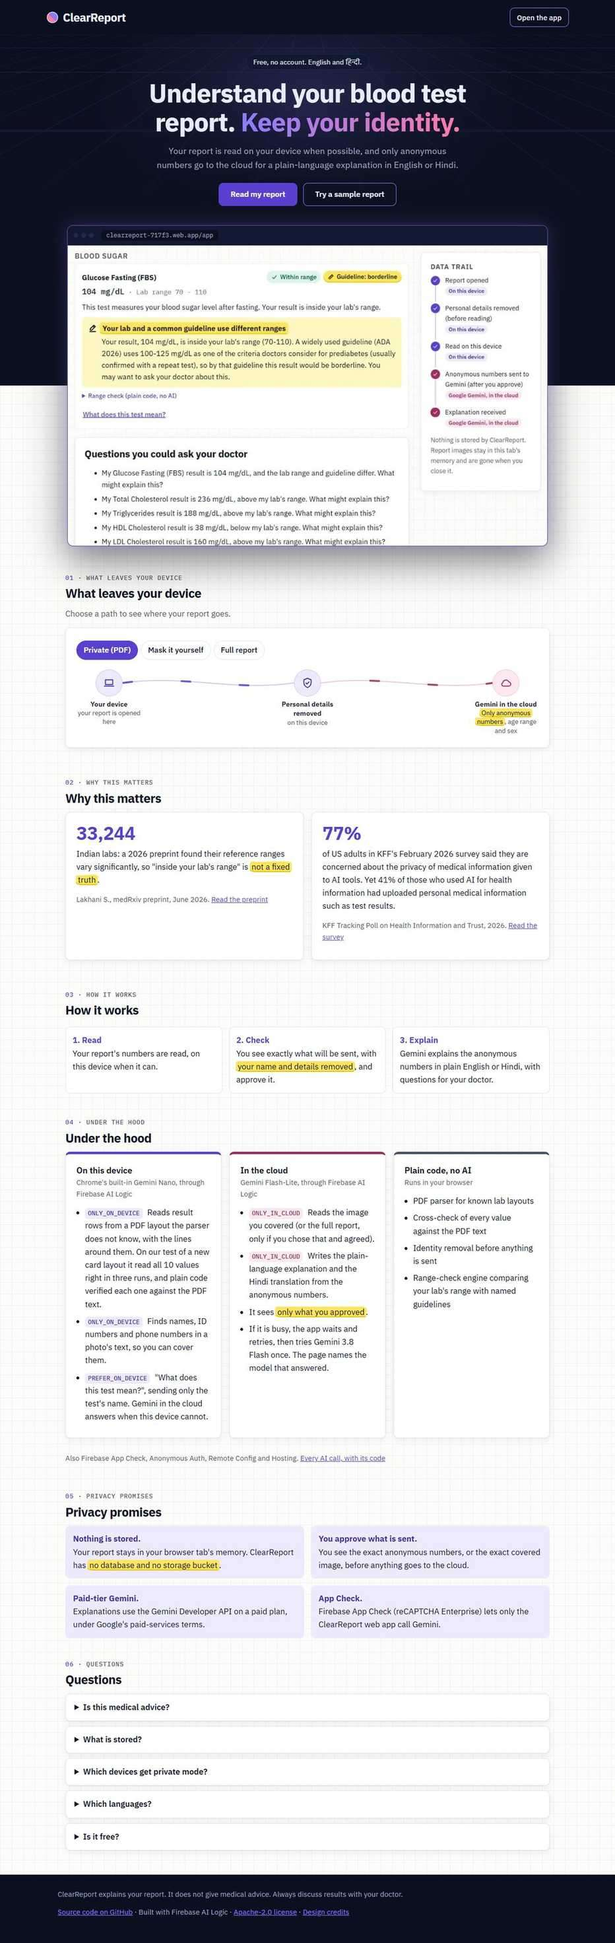
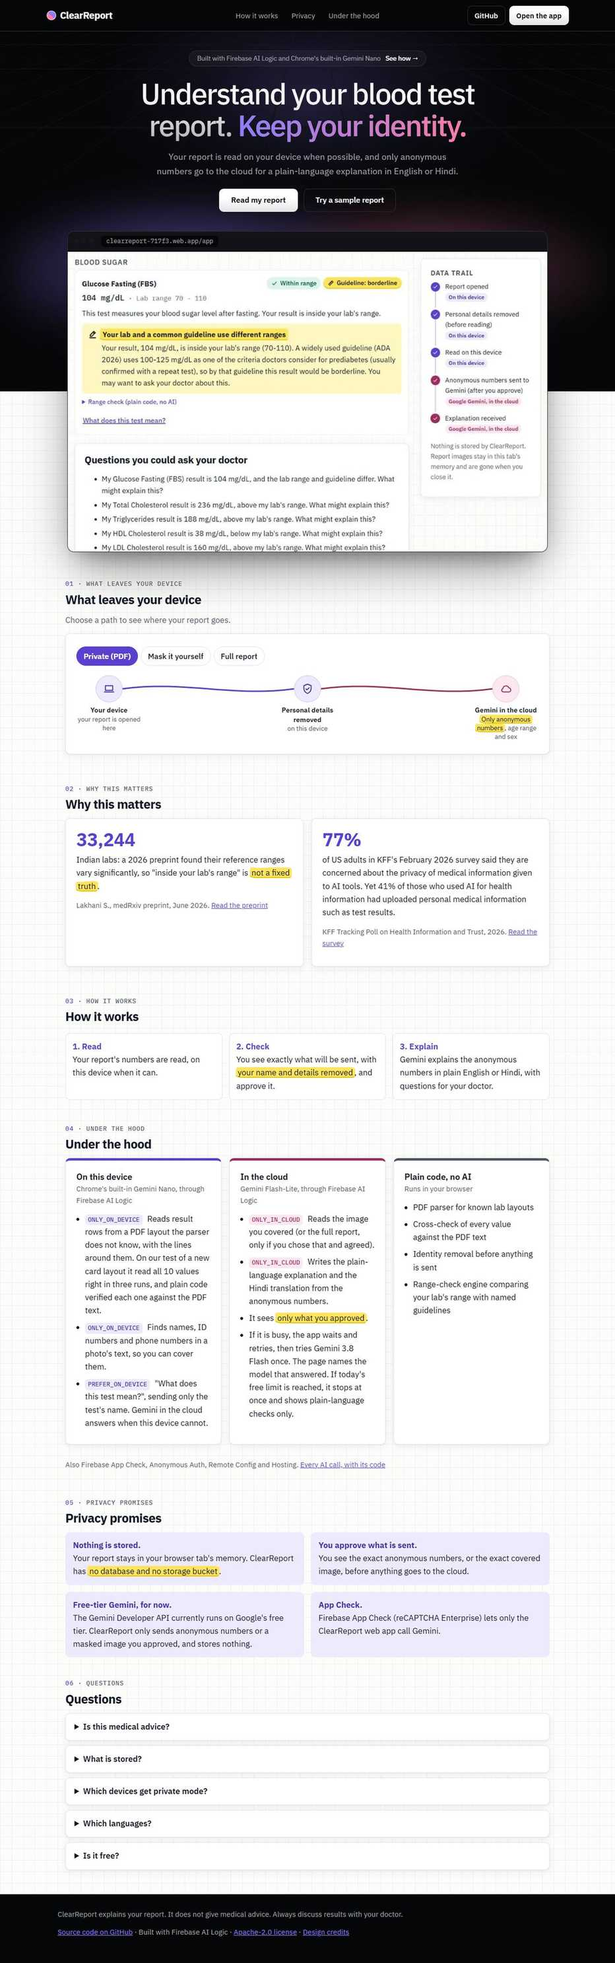
Restyle the landing page: black hero, sticky header with a mobile menu, announcement pill, white and ghost buttons, glow behind the product image

diff --git a/src/index.css b/src/index.css
@@ -35,12 +35,15 @@
   --mask-chip: #4330A8;
   --mask-fill: rgba(91, 63, 209, 0.35);
   --crop-fill: rgba(91, 63, 209, 0.3);
-  /* Landing (dark) */
-  --night: #0B1020;
-  --night-surface: #121933;
-  --night-grid: #1E2A4A;
-  --night-text: #E8ECF6;
-  --night-muted: #9AA6C3;
+  /* Landing (dark, "Landing v2": near-black) */
+  --night: #050608;
+  --night-surface: #111317;
+  --night-grid: #16181D;
+  --night-border: #2A2D34;
+  --night-text: #F5F5F7;
+  --night-text-fade: #B4B4B5; /* white at 70% over --night: the bottom of the headline's fade */
+  --night-muted: #A1A1AA;
+  --light-btn-end: #E4E4E9; /* bottom of the white button's gradient */
   --glow-violet: #8B7CFF;
   --glow-rose: #FF7AA8;
   /* Brand mark (src/ui.tsx Logo): the two stains and a thin outline; redefined on dark below. */
@@ -142,6 +145,7 @@ input[type='checkbox'] { width: 22px; height: 22px; vertical-align: -5px; margin
 .beam-tabs button { min-height: 40px; padding: 6px 14px; border-radius: 999px; border-color: var(--border); color: var(--ink); font-weight: 500; }
 .beam-tabs button[aria-selected='true'] { background: var(--primary); border-color: var(--primary); color: var(--card); font-weight: 600; }
 .beam-wrap [role='tabpanel']:focus-visible { outline-offset: 4px; }
+.beam-paused { display: inline-block; margin: 6px 0 0; padding: 2px 10px; border-radius: 999px; background: var(--muted); color: var(--ink-muted); font-size: 0.9rem; }
 .beam { display: flex; align-items: flex-start; padding: 14px 0 4px; }
 .beam-node { flex: 0 0 136px; display: flex; flex-direction: column; align-items: center; gap: 6px; text-align: center; font-size: 0.9rem; line-height: 1.35; }
 .beam-node b { display: block; font-weight: 600; }
@@ -259,7 +263,7 @@ pre.payload { background: var(--paper); border: 1px solid var(--border); border-
 .test-card { border: 1px solid var(--border); border-radius: var(--radius); padding: 16px; margin: 0 0 12px; background: var(--card); }
 .test-card .head { display: flex; flex-wrap: wrap; justify-content: space-between; gap: 6px 12px; align-items: baseline; }
 .value { font-family: var(--mono); font-variant-numeric: tabular-nums; }
-.test-card .value { font-size: 1.7rem; font-weight: 500; line-height: 1.2; letter-spacing: -0.01em; } /* the value is the focus of each card */
+.test-card .value { font-size: 1.7rem; font-weight: 500; line-height: 1.2; letter-spacing: -0.01em; white-space: nowrap; } /* the value is the focus of each card */
 .test-card .range { color: var(--ink-muted); font-family: var(--mono); font-variant-numeric: tabular-nums; font-size: 0.95rem; white-space: nowrap; }
 /* Signature callout: a highlighter stroke behind the heading (an uneven marker edge, CSS only), a pen icon, and the
    body on a pale yellow tint. In the app, yellow means only "your lab and a guideline disagree"; the landing page uses
@@ -368,15 +372,35 @@ a.btn:not(.primary):hover { background: var(--device-bg); }
 a.btn.quiet { border-color: var(--border); color: var(--ink); font-weight: 500; }
 .small-btn { min-height: 40px; padding: 6px 14px; font-size: 0.95rem; }
 .brand a { color: inherit; text-decoration: none; }
-.landing { min-height: 100vh; } /* the body's graph paper shows through the light sections, as in the app */
+/* The body's graph paper shows through the light sections, as in the app. Black behind the translucent sticky header
+   at the top of the page, so it matches the hero there. */
+.landing { min-height: 100vh; background: linear-gradient(to bottom, var(--night) 0 120px, transparent 120px); }
 .land-dark { background: var(--night); color: var(--night-text); --logo-a: var(--glow-violet); --logo-b: var(--glow-rose); --logo-line: var(--night-text); }
 .land-dark :focus-visible { outline-color: var(--glow-violet); }
 .land-dark a:not(.btn) { color: var(--glow-violet); }
-.land-dark .brand { color: var(--night-text); }
-.land-dark a.btn.quiet, .land-dark a.btn:not(.primary) { background: transparent; border-color: var(--glow-violet); color: var(--night-text); }
-.land-dark a.btn:not(.primary):hover { background: var(--night-surface); }
-.land-top { max-width: 1120px; margin: 0 auto; padding: 16px; display: flex; justify-content: space-between; align-items: center; gap: 12px; position: relative; z-index: 2; }
-.land-head { background: var(--night); }
+.land-dark .brand, .land-dark a.brand { color: var(--night-text); text-decoration: none; }
+/* Landing v2 buttons: white (black text, a soft gradient, a gentle scale on hover) and ghost (thin border). */
+.land-dark a.btn.light { background: linear-gradient(to bottom, #FFFFFF, #FFFFFF 40%, var(--light-btn-end)); border: 1px solid transparent; color: var(--night); transition: transform 0.2s ease-out; }
+.land-dark a.btn.light:hover { background: linear-gradient(to bottom, #FFFFFF, var(--light-btn-end)); transform: scale(1.04); }
+.land-dark a.btn.light:active { transform: scale(0.98); }
+.land-dark a.btn.ghost { background: transparent; border: 1px solid var(--night-border); color: var(--night-text); font-weight: 500; }
+.land-dark a.btn.ghost:hover { background: var(--night-surface); }
+@media (prefers-reduced-motion: reduce) { .land-dark a.btn.light, .land-dark a.btn.light:hover, .land-dark a.btn.light:active { transform: none; transition: none; } }
+/* Sticky header: near-black at 80% with a blur, a thin bottom border; links in the centre on desktop, a menu on phones. */
+.land-head { position: sticky; top: 0; z-index: 50; background: rgba(5, 6, 8, 0.8); -webkit-backdrop-filter: blur(12px); backdrop-filter: blur(12px); border-bottom: 1px solid var(--night-border); }
+.land-top { max-width: 1120px; margin: 0 auto; padding: 12px 16px; display: flex; justify-content: space-between; align-items: center; gap: 12px; position: relative; }
+.land-top .brand { font-size: 1.25rem; }
+.land-nav { position: absolute; left: 50%; transform: translateX(-50%); display: flex; gap: 28px; }
+.land-dark .land-nav a, .land-dark .land-menu a:not(.btn) { color: var(--night-muted); text-decoration: none; font-size: 0.95rem; }
+.land-dark .land-nav a:hover, .land-dark .land-menu a:not(.btn):hover { color: var(--night-text); }
+.land-top-right { display: flex; gap: 8px; align-items: center; }
+.land-dark .menu-btn { display: none; align-items: center; justify-content: center; min-height: 44px; min-width: 44px; padding: 0; background: transparent; border: 1px solid var(--night-border); color: var(--night-text); }
+.land-dark .menu-btn:hover:not(:disabled) { background: var(--night-surface); }
+.land-menu nav { max-width: 1120px; margin: 0 auto; padding: 4px 16px 16px; display: flex; flex-direction: column; }
+.land-dark .land-menu a:not(.btn) { padding: 11px 0; border-bottom: 1px solid var(--night-grid); font-size: 1rem; }
+.land-menu .btn { margin-top: 14px; }
+@media (max-width: 760px) { .land-nav, .land-top-right { display: none; } .land-dark .menu-btn { display: inline-flex; } }
+@media (min-width: 761px) { .land-menu { display: none; } }
 .land-hero-top { position: relative; overflow: hidden; padding: 40px 16px 0; }
 /* One soft violet glow behind the headline. Static. */
 .land-hero-top::before { content: ''; position: absolute; left: 50%; top: -120px; width: min(900px, 140vw); height: 560px; transform: translateX(-50%); background: radial-gradient(closest-side, rgba(139, 124, 255, 0.28), rgba(139, 124, 255, 0.08) 55%, transparent); pointer-events: none; }
@@ -392,21 +416,35 @@ a.btn.quiet { border-color: var(--border); color: var(--ink); font-weight: 500; 
 }
 .hero-grid::after { content: ''; position: absolute; inset: 0; background: linear-gradient(to top, var(--night) 10%, transparent 90%); }
 .land-hero-inner { position: relative; z-index: 1; max-width: 1040px; margin: 0 auto; text-align: center; }
-.eyebrow { display: inline-block; font-size: 0.9rem; color: var(--night-text); background: var(--night-surface); border: 1px solid var(--night-grid); border-radius: 999px; padding: 4px 14px; margin-bottom: 18px; }
-.land-hero h1 { font-size: clamp(2rem, 5.2vw, 3.4rem); line-height: 1.1; letter-spacing: -0.025em; max-width: 820px; margin: 0 auto 16px; color: var(--night-text); }
+/* Announcement pill */
+.pill { display: inline-flex; flex-wrap: wrap; justify-content: center; align-items: center; gap: 4px 10px; font-size: 0.85rem; line-height: 1.4; color: var(--night-muted); background: rgba(255, 255, 255, 0.04); border: 1px solid var(--night-border); border-radius: 999px; padding: 6px 16px; margin: 0 0 24px; max-width: 100%; }
+.land-dark .pill a { color: var(--night-text); font-weight: 500; text-decoration: none; white-space: nowrap; }
+.land-dark .pill a:hover { text-decoration: underline; }
+/* Headline: medium weight, tight, white fading to 70% white towards the bottom (checked in scripts/contrast.ts). */
+.land-hero h1 {
+  font-size: clamp(2.2rem, 5.6vw, 3.8rem); font-weight: 500; line-height: 1.08; letter-spacing: -0.04em; max-width: 860px; margin: 0 auto 18px;
+  color: var(--night-text); background: linear-gradient(to bottom, var(--night-text) 35%, var(--night-text-fade)); -webkit-background-clip: text; background-clip: text; -webkit-text-fill-color: transparent;
+}
+/* A gentle fade-in on load. */
+.land-hero-inner, .hero-shot > * { animation: land-in 0.6s ease-out both; }
+@keyframes land-in { from { opacity: 0; transform: translateY(10px); } }
+@media (prefers-reduced-motion: reduce) { .land-hero-inner, .hero-shot > * { animation: none; } }
 .grad { color: var(--glow-violet); background: linear-gradient(90deg, var(--glow-violet), var(--glow-rose)); -webkit-background-clip: text; background-clip: text; -webkit-text-fill-color: transparent; }
 .lede { font-size: 1.15rem; color: var(--night-muted); max-width: 640px; margin: 0 auto 22px; }
 .land-ctas { display: flex; flex-wrap: wrap; justify-content: center; gap: 12px; margin-bottom: 0; padding-bottom: 40px; }
 /* The product image straddles the boundary: the night ends with a crisp edge halfway down it, the paper starts there. */
-.hero-shot { position: relative; z-index: 1; padding: 0 16px; background: linear-gradient(to bottom, var(--night) 50%, transparent 50%); }
+.hero-shot { position: relative; padding: 0 16px; background: linear-gradient(to bottom, var(--night) 50%, transparent 50%); }
+/* A soft violet-to-rose glow behind the product image (CSS only), kept inside the black half. */
+.hero-shot::before { content: ''; position: absolute; left: 50%; top: -110px; width: min(1240px, 112%); height: 58%; transform: translateX(-50%); background: radial-gradient(50% 60% at 30% 50%, rgba(139, 124, 255, 0.62), transparent 72%), radial-gradient(45% 55% at 70% 50%, rgba(255, 122, 168, 0.48), transparent 72%); filter: blur(32px); pointer-events: none; }
+.hero-shot > * { position: relative; }
 .land-ctas .btn { min-height: 48px; padding: 10px 24px; }
-.browser-frame { margin: 0 auto; max-width: 1000px; background: var(--night-surface); border: 1px solid rgba(139, 124, 255, 0.55); border-radius: 12px; overflow: hidden; box-shadow: 0 0 0 1px rgba(139, 124, 255, 0.15), 0 0 40px rgba(139, 124, 255, 0.28), 0 30px 80px rgba(0, 0, 0, 0.5); }
+.browser-frame { margin: 0 auto; max-width: 1000px; background: var(--night-surface); border: 1px solid rgba(255, 255, 255, 0.12); border-radius: 14px; overflow: hidden; box-shadow: 0 40px 100px -20px rgba(5, 6, 8, 0.55), 0 20px 40px -20px rgba(5, 6, 8, 0.35); }
 .browser-bar { display: flex; align-items: center; gap: 6px; padding: 9px 12px; background: var(--night-surface); border-bottom: 1px solid var(--night-grid); }
 .browser-bar i { width: 10px; height: 10px; border-radius: 50%; background: var(--night-grid); }
 .browser-bar span { margin-left: 10px; font-size: 0.8rem; font-family: var(--mono); color: var(--night-muted); background: var(--night); border-radius: 6px; padding: 1px 10px; }
 .browser-frame img { display: block; width: 100%; height: auto; }
 .land-light { position: relative; }
-.land-section { max-width: 1040px; margin: 0 auto; padding: 36px 16px 8px; }
+.land-section { max-width: 1040px; margin: 0 auto; padding: 36px 16px 8px; scroll-margin-top: 72px; } /* clear of the sticky header */
 .land-light > .land-section:first-child { padding-top: 56px; }
 .land-section > h2 { font-size: 1.6rem; }
 /* Section labels read like the headers of a lab printout: a number and the name, in small monospace capitals. */
@@ -421,7 +459,7 @@ a.btn.quiet { border-color: var(--border); color: var(--ink); font-weight: 500; 
 .faq details { padding: 0; margin-bottom: 10px; }
 .faq summary { padding: 14px 18px; color: var(--ink); min-height: 48px; }
 .faq details p { padding: 0 18px 4px; margin-top: 0; }
-.land-footer { margin: 32px 0 0; padding: 28px 16px 40px; background: var(--night); color: var(--night-muted); font-size: 0.95rem; }
+.land-footer { margin: 32px 0 0; padding: 28px 16px 40px; background: var(--night); color: var(--night-muted); font-size: 0.95rem; border-top: 1px solid var(--night-border); }
 .land-footer > * { max-width: 1040px; margin-left: auto; margin-right: auto; }
 @media (max-width: 720px) {
   .land-grid2, .promises { grid-template-columns: 1fr; }

diff --git a/src/Landing.tsx b/src/Landing.tsx
@@ -1,8 +1,10 @@
+import { useEffect, useRef, useState } from 'react'
 import Beam from './Beam'
 import { checkTest, DISCLAIMER } from './guidelines'
 import { Badge, Icon, Logo } from './ui'
 // The landing page at "/". Static: no Firebase, no AI, no report. The tool lives at /app.
-// Hero layout inspired by "Hero Section Dark" by kinfe123 / FarmUI (MIT), rebuilt in plain CSS with the Specimen tokens.
+// Hero layout inspired by "Hero Section Dark" by kinfe123 / FarmUI (MIT) and the 21st.dev "SaaS Template" (header,
+// announcement pill, button styles and the glow behind the product image), rebuilt in plain CSS with the Specimen tokens.
 
 const REPO = 'https://github.com/tusharshah21/ClearReport'
 
@@ -41,27 +43,60 @@ const FAQ: [string, React.ReactNode][] = [
   ['Is it free?', <>Yes. There is no account to create and nothing to pay.</>],
 ]
 
+const NAV: [string, string][] = [['#how', 'How it works'], ['#privacy', 'Privacy'], ['#hood', 'Under the hood']]
+const svgIcon = (d: string) => <svg viewBox="0 0 24 24" width="22" height="22" aria-hidden="true" fill="none" stroke="currentColor" strokeWidth="2" strokeLinecap="round"><path d={d} /></svg>
+
+// Sticky header. On phones the links sit behind a menu button (disclosure pattern): Escape and a link tap close it.
+function Header() {
+  const [open, setOpen] = useState(false)
+  const button = useRef<HTMLButtonElement>(null)
+  useEffect(() => {
+    if (!open) return
+    const onKey = (e: KeyboardEvent) => { if (e.key === 'Escape') { setOpen(false); button.current?.focus() } }
+    document.addEventListener('keydown', onKey)
+    return () => document.removeEventListener('keydown', onKey)
+  }, [open])
+  const links = NAV.map(([href, label]) => <a key={href} href={href} onClick={() => setOpen(false)}>{label}</a>)
+  return (
+    <div className="land-dark land-head">
+      <header className="land-top">
+        <a className="brand" href="/"><Logo />ClearReport</a>
+        <nav className="land-nav" aria-label="Sections">{links}</nav>
+        <div className="land-top-right">
+          <a className="btn ghost small-btn" href={REPO}>GitHub</a>
+          <a className="btn light small-btn" href="/app">Open the app</a>
+        </div>
+        <button ref={button} type="button" className="menu-btn" aria-expanded={open} aria-controls="land-menu" aria-label="Menu" onClick={() => setOpen(!open)}>
+          {open ? svgIcon('M18 6 6 18M6 6l12 12') : svgIcon('M4 6h16M4 12h16M4 18h16')}
+        </button>
+      </header>
+      <div id="land-menu" className="land-menu" hidden={!open}>
+        <nav aria-label="Sections">
+          {links}
+          <a href={REPO} onClick={() => setOpen(false)}>GitHub</a>
+          <a className="btn light" href="/app">Open the app</a>
+        </nav>
+      </div>
+    </div>
+  )
+}
+
 export default function Landing() {
   return (
     <div className="landing">
-      <div className="land-dark land-head">
-        <header className="land-top">
-          <p className="brand"><Logo />ClearReport</p>
-          <a className="btn quiet small-btn" href="/app">Open the app</a>
-        </header>
-      </div>
+      <Header />
 
       <main id="main">
         <section className="land-hero" aria-labelledby="land-title">
           <div className="land-hero-top land-dark">
             <div className="hero-grid" aria-hidden="true"><div className="hero-grid-plane"><div className="hero-grid-lines" /></div></div>
             <div className="land-hero-inner">
-              <p className="eyebrow">Free, no account. English and हिन्दी.</p>
+              <p className="pill">Built with Firebase AI Logic and Chrome's built-in Gemini Nano <a href="#hood">See how <span aria-hidden="true">→</span></a></p>
               <h1 id="land-title">Understand your blood test report. <span className="grad">Keep your identity.</span></h1>
               <p className="lede">Your report is read on your device when possible, and only anonymous numbers go to the cloud for a plain-language explanation in English or Hindi.</p>
               <div className="land-ctas">
-                <a className="btn primary" href="/app">Read my report</a>
-                <a className="btn" href="/app?sample=demo">Try a sample report</a>
+                <a className="btn light" href="/app">Read my report</a>
+                <a className="btn ghost" href="/app?sample=demo">Try a sample report</a>
               </div>
             </div>
           </div>
@@ -100,7 +135,7 @@ export default function Landing() {
           </div>
         </section>
 
-        <section className="land-section" aria-labelledby="how-title">
+        <section className="land-section" id="how" aria-labelledby="how-title">
           <p className="sec-label" aria-hidden="true"><span>03</span> · How it works</p>
           <h2 id="how-title">How it works</h2>
           <ol className="steps3">
@@ -110,7 +145,7 @@ export default function Landing() {
           </ol>
         </section>
 
-        <section className="land-section" aria-labelledby="hood-title">
+        <section className="land-section" id="hood" aria-labelledby="hood-title">
           <p className="sec-label" aria-hidden="true"><span>04</span> · Under the hood</p>
           <h2 id="hood-title">Under the hood</h2>
           <div className="hood">
@@ -147,7 +182,7 @@ export default function Landing() {
           <p className="small muted hood-more">Also Firebase App Check, Anonymous Auth, Remote Config and Hosting. <a href={`${REPO}#how-we-use-firebase-ai-logic`}>Every AI call, with its code</a></p>
         </section>
 
-        <section className="land-section" aria-labelledby="privacy-title">
+        <section className="land-section" id="privacy" aria-labelledby="privacy-title">
           <p className="sec-label" aria-hidden="true"><span>05</span> · Privacy promises</p>
           <h2 id="privacy-title">Privacy promises</h2>
           <ul className="promises">

diff --git a/scripts/contrast.ts b/scripts/contrast.ts
@@ -30,11 +30,13 @@ const PAIRS: [string, string, number, string][] = [
   ['white', 'primary', 3, 'tick in a finished device step (non-text)'],
   ['white', 'mask-chip', 4.5, 'numbered chip on suggested mask boxes'], ['mask-outline', 'white', 3, 'suggested mask outline on paper (non-text)'],
   // Landing (dark)
-  ['night-text', 'night', 4.5, 'hero headline and text on dark'], ['night-text', 'night-surface', 4.5, 'eyebrow pill, outlined button hover'],
-  ['night-muted', 'night', 4.5, 'lede, footer text'], ['night-muted', 'night-surface', 4.5, 'address bar in the browser frame'],
-  ['night-text', 'night-grid', 4.5, 'text where it crosses a slide-grid line'],
+  ['night-text', 'night', 4.5, 'headline top, header and menu text, ghost buttons'], ['night-text', 'night-surface', 4.5, 'pill link, ghost button and menu button hover'],
+  ['night-text-fade', 'night', 4.5, 'headline bottom (white fading to 70% white)'],
+  ['night-muted', 'night', 4.5, 'lede, header links, footer text'], ['night-muted', 'night-surface', 4.5, 'announcement pill text, address bar in the browser frame'],
+  ['night-text', 'night-grid', 4.5, 'text where it crosses a slide-grid line, menu link dividers'],
+  ['night', 'white', 4.5, 'white button text ("Read my report", "Open the app"), top'], ['night', 'light-btn-end', 4.5, 'white button text, bottom of its gradient'],
   ['glow-violet', 'night', 4.5, 'links on dark, gradient start'], ['glow-rose', 'night', 4.5, 'gradient end'],
-  ['white', 'primary', 4.5, 'primary button on dark ("Read my report")'], ['glow-violet', 'night', 3, 'outlined button border and focus ring on dark (non-text)'],
+  ['glow-violet', 'night', 3, 'focus ring on dark (non-text)'], ['glow-violet', 'night-surface', 3, 'focus ring on a hovered dark control (non-text)'],
 ]
 const rows = PAIRS.map(([f, b, min, use]) => {
   assert.ok(T[f] && T[b], `missing token ${T[f] ? b : f}`)
@@ -51,4 +53,11 @@ const mix = (a: string, b: string, t: number) => '#' + [1, 3, 5].map((i) => Math
 const grad = Array.from({ length: 11 }, (_, k) => ratio(mix(T['glow-violet'], T['glow-rose'], k / 10), T.night))
 assert.ok(Math.min(...grad) >= 4.5, `hero gradient: lowest point ${Math.min(...grad).toFixed(2)} < 4.5`)
 if (process.argv.includes('--table')) console.log(`| gradient \`--glow-violet\` to \`--glow-rose\` (lowest point) | \`--night\` ${T.night} | ${Math.min(...grad).toFixed(2)}:1 | 4.5:1 | landing headline "Keep your identity." |`)
-console.log(`contrast ok: ${rows.length} pairs and the hero gradient`)
+// The sticky header is --night at 80% with a blur: over the light paper sections it is at its palest.
+const header = mix(T.night, T.paper, 0.2)
+for (const [f, use] of [['night-text', 'header text and logo name over the light sections'], ['night-muted', 'header links over the light sections']] as const) {
+  const r = ratio(T[f], header)
+  if (process.argv.includes('--table')) console.log(`| \`--${f}\` ${T[f]} | header over \`--paper\` ${header} | ${r.toFixed(2)}:1 | 4.5:1 | ${use} |`)
+  assert.ok(r >= 4.5, `contrast --${f} on the header over paper: ${r.toFixed(2)} < 4.5`)
+}
+console.log(`contrast ok: ${rows.length} pairs, the hero gradient and the header over paper`)

diff --git a/src/Beam.tsx b/src/Beam.tsx
@@ -66,9 +66,10 @@ export default function Beam() {
       <div id="beam-panel" role="tabpanel" aria-labelledby={`beam-tab-${kind}`} tabIndex={0}>
         <p className="sr-only">
           {kind === 'full'
-            ? `${p.tab}: ${p.here}. Your device sends ${p.there.toLowerCase()} straight to Gemini in the cloud.`
+            ? `${p.tab}: ${p.here}. Your device would send ${p.there.toLowerCase()} straight to Gemini in the cloud.`
             : `${p.tab}: on your device, ${p.mid!.label.toLowerCase()} (${p.here.toLowerCase()}). Then ${p.there.toLowerCase()} go to Gemini in the cloud.`}
         </p>
+        {kind === 'full' && <p className="beam-paused">Paused while ClearReport runs on Google's free tier.</p>}
         {/* key: switching tabs restarts the pulse from the device */}
         <div className="beam" key={kind} aria-hidden="true">
           <Stop n={DEVICE} text={kind === 'full' ? p.here : undefined} />

diff --git a/scripts/screens.ts b/scripts/screens.ts
@@ -20,7 +20,8 @@ mkdirSync(OUT, { recursive: true })
 if (ID === 'landing') {
   const b = await chromium.launch({ channel: 'chrome' })
   for (const [tag, width, height] of [['desktop', 1280, 860], ['mobile', 390, 844]] as const) {
-    const page = await b.newPage({ viewport: { width, height }, deviceScaleFactor: 1 })
+    // Reduced motion: the hero's fade-in is off, so a full-page capture never catches it half way.
+    const page = await b.newPage({ viewport: { width, height }, deviceScaleFactor: 1, reducedMotion: 'reduce' })
     await page.goto(URL.replace('/app', '/'))
     await page.locator('.browser-frame img').evaluate((img: HTMLImageElement) => img.decode())
     const path = `${OUT}/01-landing-${tag}.jpg`

diff --git a/index.html b/index.html
@@ -5,7 +5,7 @@
     <meta name="viewport" content="width=device-width, initial-scale=1.0" />
     <title>ClearReport: understand your blood test report, keep your identity</title>
     <meta name="description" content="Your blood test report explained in plain English or Hindi. It is read on your device when possible, and only anonymous numbers go to the cloud for the explanation. Not medical advice." />
-    <meta name="theme-color" content="#0B1020" />
+    <meta name="theme-color" content="#050608" />
     <link rel="icon" href="/favicon.svg" type="image/svg+xml" />
     <meta name="color-scheme" content="light" />
     <link rel="canonical" href="https://clearreport-717f3.web.app/" />

diff --git a/docs/superpowers/specs/2026-11-23-ui-theme-design.md b/docs/superpowers/specs/2026-11-23-ui-theme-design.md
@@ -89,6 +89,20 @@ Buttons on dark keep `--primary` with white text (6.83:1). The outlined secondar
 - `prefers-reduced-motion` is respected (no pulses, spinners turn static).
 - Focus is visible on dark and on light.
 
+## Landing v2 (2026-11-24)
+
+The landing page only; the app screens do not change. The header, announcement pill, buttons and the glow behind the product image take their look from the 21st.dev "SaaS Template", used as a visual reference only and rebuilt in plain CSS with these tokens (no Tailwind, no Google Fonts, no outside images).
+
+- Black replaces the navy night: `--night` #050608, `--night-surface` #111317, `--night-grid` #16181D, `--night-border` #2A2D34 (decorative), `--night-text` #F5F5F7, `--night-muted` #A1A1AA. The faint slide grid stays; on black it reads as a quiet texture. The page's `theme-color` is #050608.
+- Sticky header: `--night` at 80% with a 12px backdrop blur and a thin bottom border. Logo and name on the left; "How it works", "Privacy" and "Under the hood" in the centre (anchor links); a ghost "GitHub" link and a white "Open the app" button on the right. Below 761px a menu button (`aria-expanded`, `aria-controls`) opens the same links; Escape closes it and returns focus to the button, and tapping a link closes it. Sections keep clear of the header with `scroll-margin-top`.
+- Announcement pill above the headline: "Built with Firebase AI Logic and Chrome's built-in Gemini Nano", with "See how" linking to Under the hood.
+- Headline: Plex Sans 500, letter spacing -0.04em, `--night-text` fading to `--night-text-fade` (#B4B4B5, white at 70% over black) towards the bottom. "Keep your identity." keeps the violet-to-rose gradient.
+- Buttons: white (a white to `--light-btn-end` #E4E4E9 gradient, black text, a gentle scale on hover) and ghost (transparent, thin `--night-border` border).
+- Product image: rounded 14px with a large soft shadow and a violet-to-rose radial glow behind it (CSS only), kept inside the black half. The crisp black-to-paper edge halfway down the image, and the live glucose card on phones, stay.
+- The hero fades in on load (0.6s); with `prefers-reduced-motion` it does not, and the white button does not scale.
+- The footer is black with the header's thin border.
+- Contrast: the headline's faintest point is 9.78:1, the white buttons 16.00:1 at their palest, header links 4.65:1 where the translucent header sits over the light paper (checked as `--night` at 80% over `--paper`).
+
 ## What does not change
 
 No logic, extraction, privacy, copy meaning or test expectations change. Layout and markup stay as they are, apart from class names and icons needed for the treatments above (path card accents, the pen icon in the callout, monospace values).
